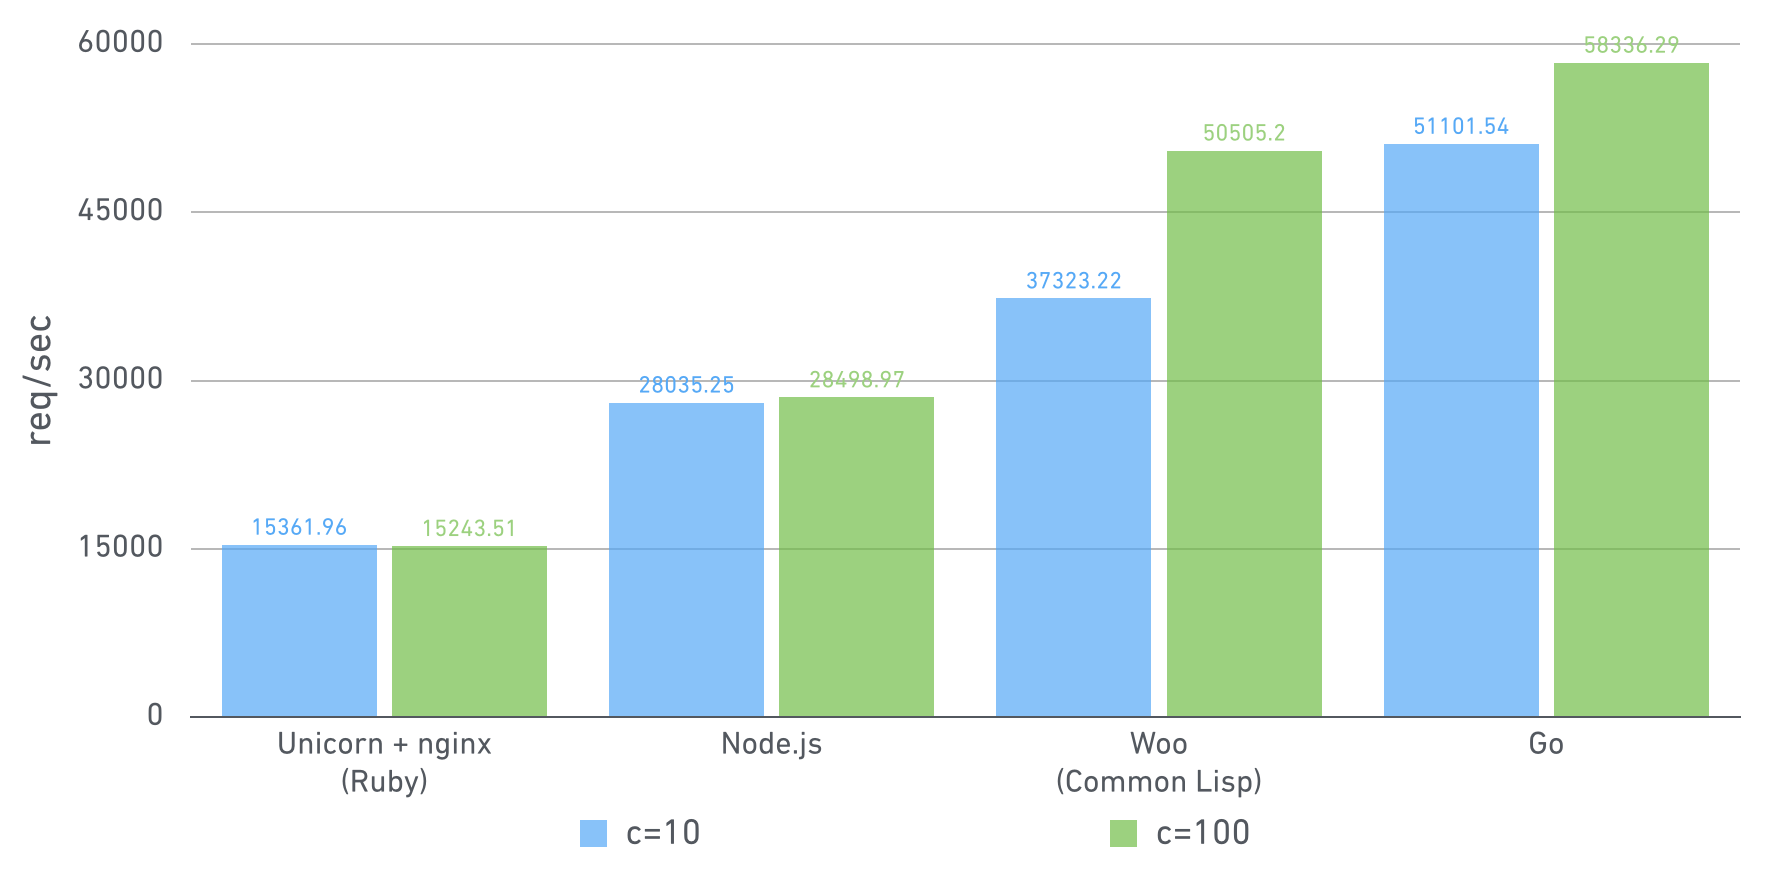
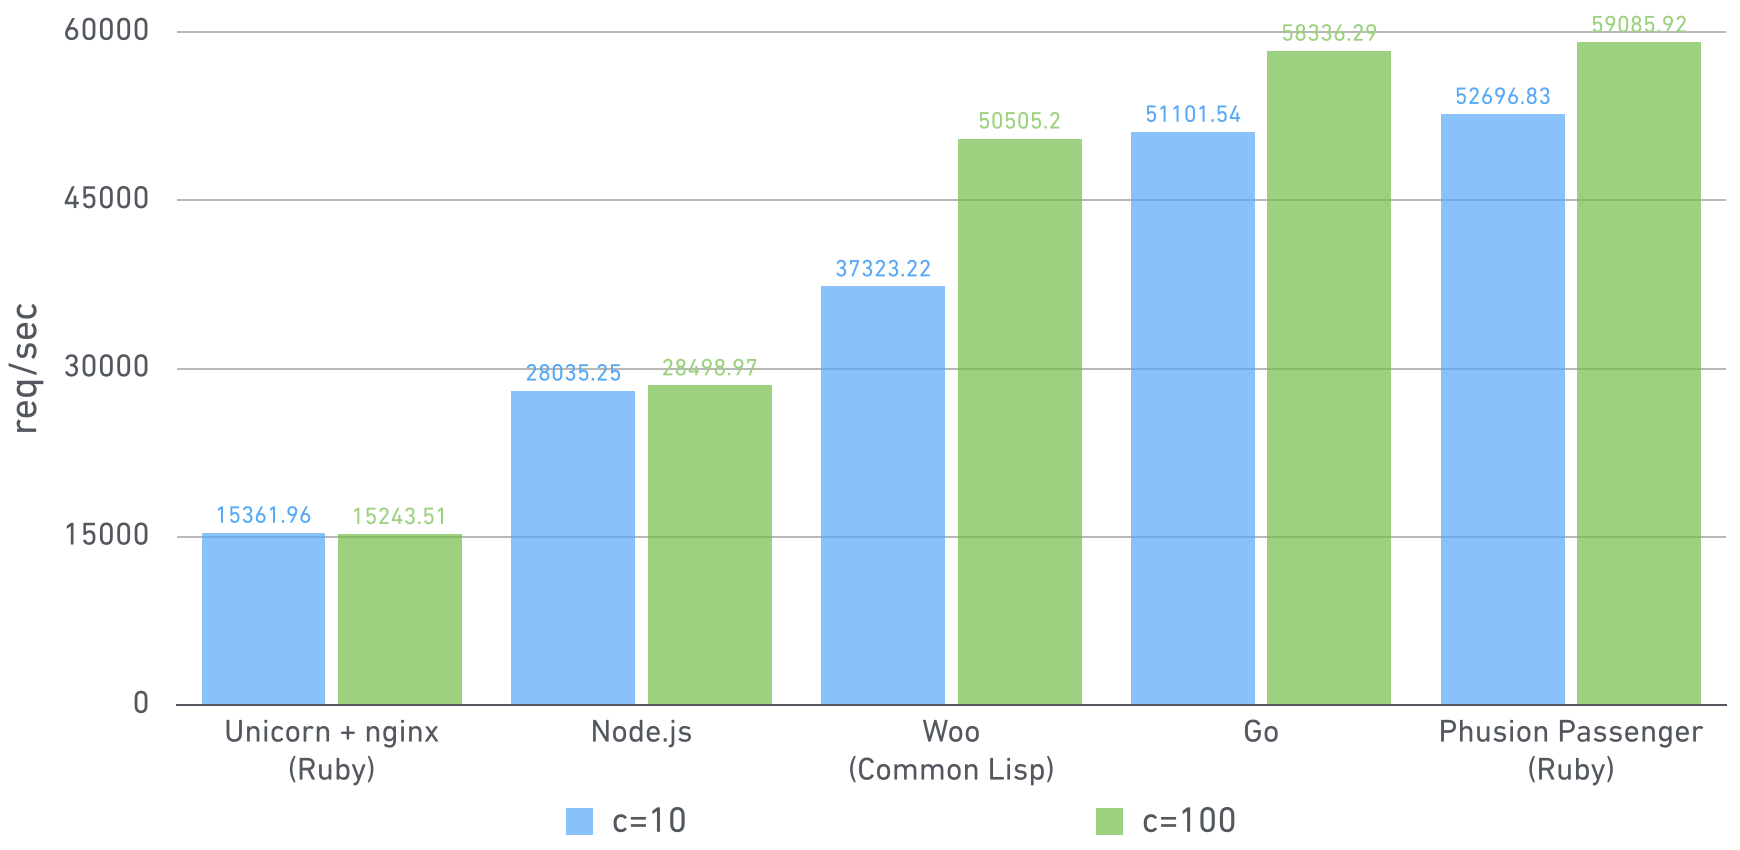
(close #5) Add Phusion Passenger.

diff --git a/README.md b/README.md
@@ -73,7 +73,9 @@ The benchmarking environment is:
 * PyPy 2.4.0
 * Go 1.3.3
 * Tornado 4.0.2
+* Ruby 2.1.1p76
 * Unicorn 4.8.3
+* Phusion Passenger 5.0.0.beta2
 * Node.js 0.10.21
 * Quicklisp 2014-11-06
 * libevent 2.1.4-alpha (HEAD)
@@ -415,6 +417,37 @@ Running 10s test @ http://127.0.0.1:5000
   583243 requests in 10.00s, 71.75MB read
 Requests/sec:  58336.29
 Transfer/sec:      7.18MB
+```
+
+### Phusion Passenger (Ruby)
+
+```
+$ passenger start -e production -R benchmark/unicorn/app.ru --max-pool-size 4 --min-instances 4
+```
+
+```
+wrk -c 10 -t 4 -d 10 http://127.0.0.1:3000
+Running 10s test @ http://127.0.0.1:3000
+  4 threads and 10 connections
+  Thread Stats   Avg      Stdev     Max   +/- Stdev
+    Latency   177.00us    1.10ms  45.88ms   99.64%
+    Req/Sec    13.87k     3.06k   27.00k    80.29%
+  526936 requests in 10.00s, 79.90MB read
+Requests/sec:  52696.83
+Transfer/sec:      7.99MB
+```
+
+```
+wrk -c 100 -t 4 -d 10 http://127.0.0.1:3000
+Running 10s test @ http://127.0.0.1:3000
+  4 threads and 100 connections
+  Thread Stats   Avg      Stdev     Max   +/- Stdev
+    Latency     1.42ms    1.85ms  64.67ms   98.36%
+    Req/Sec    15.60k     3.55k   47.00k    62.83%
+  590815 requests in 10.00s, 89.59MB read
+  Socket errors: connect 0, read 0, write 0, timeout 48
+Requests/sec:  59085.92
+Transfer/sec:      8.96MB
 ```
 
 ## Installation
